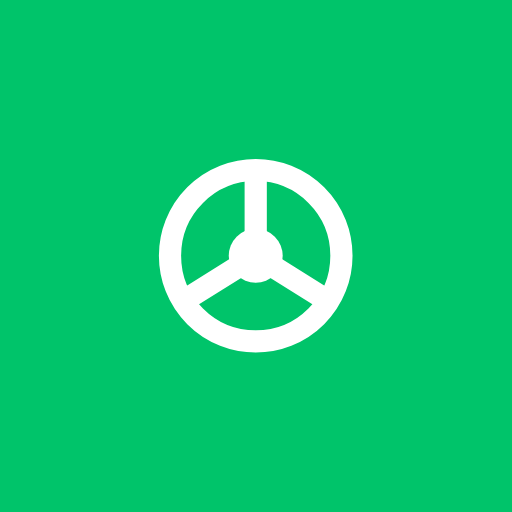
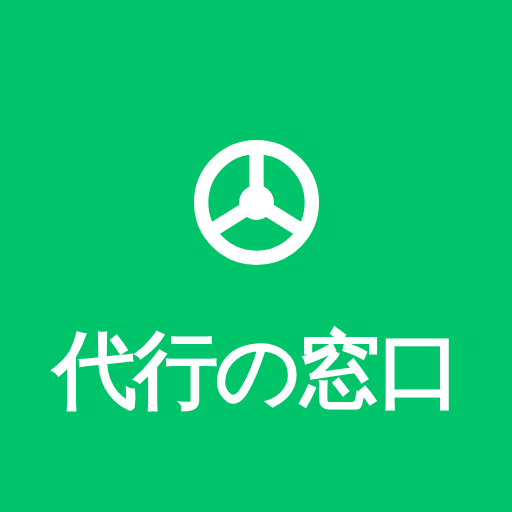
アイコンに「代行の窓口」の文字を追加 / エントリー待ち画面に経過時間と自動更新表示
- PWAアイコン(192/512)をハンドルマーク＋「代行の窓口」文字入りで再生成
- エントリー待ち画面に「募集開始から m:ss」と「自動更新中（5秒ごと）」を表示
- entries.json に elapsed_seconds を追加

Claude-Session: https://claude.ai/code/session_01VVuqWRyhNDK7Zx8P4Ac34D

Changed region(s): [[0.0938, 0.25, 0.875, 0.8125]]

diff --git a/daiko/templates/customer/wait.html b/daiko/templates/customer/wait.html
@@ -7,9 +7,14 @@
   <div class="small muted">{{ req.car_type }} ／ {{ req.transmission.value }} ／ {{ req.handle.label }} ／ {{ req.time_label }}</div>
 </div>
 
+<div class="center small muted" style="margin:2px 0 12px">
+  <span id="elapsed">募集開始から 0:00</span>
+  ・<span style="color:var(--green-dd);font-weight:700">自動更新中（5秒ごと）</span>
+</div>
+
 <div id="waiting" class="waiting">
   <div class="spin"></div>
-  <p class="muted">ドライバーを探しています…<br>料金・到着時間の提示が届くと、ここに表示されます。</p>
+  <p class="muted">ドライバーを探しています…<br>料金・到着時間の提示が届くと、ここに自動で表示されます。</p>
 </div>
 
 <div id="entries"></div>
@@ -30,7 +35,14 @@ function selectEntry(id, vendor, price) {
   document.getElementById('entry_id').value = id;
   document.getElementById('confirm-form').submit();
 }
+let elapsed = 0;
+function fmt(s) { const m = Math.floor(s / 60); return m + ':' + String(s % 60).padStart(2, '0'); }
+function tick() { elapsed += 1; document.getElementById('elapsed').textContent = '募集開始から ' + fmt(elapsed); }
 function render(data) {
+  if (typeof data.elapsed_seconds === 'number') {
+    elapsed = data.elapsed_seconds;
+    document.getElementById('elapsed').textContent = '募集開始から ' + fmt(elapsed);
+  }
   if (data.status === 'confirmed' || data.status === 'in_progress' || data.status === 'completed') {
     location.href = "{{ url_for('customer.detail', request_id=req.id) }}"; return;
   }
@@ -56,6 +68,6 @@ function poll() {
   fetch("{{ url_for('customer.entries_json', request_id=req.id) }}")
     .then((r) => r.json()).then(render).catch(() => {});
 }
-poll(); setInterval(poll, 5000);
+poll(); setInterval(poll, 5000); setInterval(tick, 1000);
 </script>
 {% endblock %}

diff --git a/daiko/blueprints/customer.py b/daiko/blueprints/customer.py
@@ -101,6 +101,7 @@ def entries_json(request_id: int):
             "status": req.status.value,
             "status_label": req.status.label,
             "confirmed_entry_id": req.confirmed_entry_id,
+            "elapsed_seconds": max(0, int((datetime.utcnow() - req.created_at).total_seconds())),
             "entries": [
                 {
                     "id": e.id,
